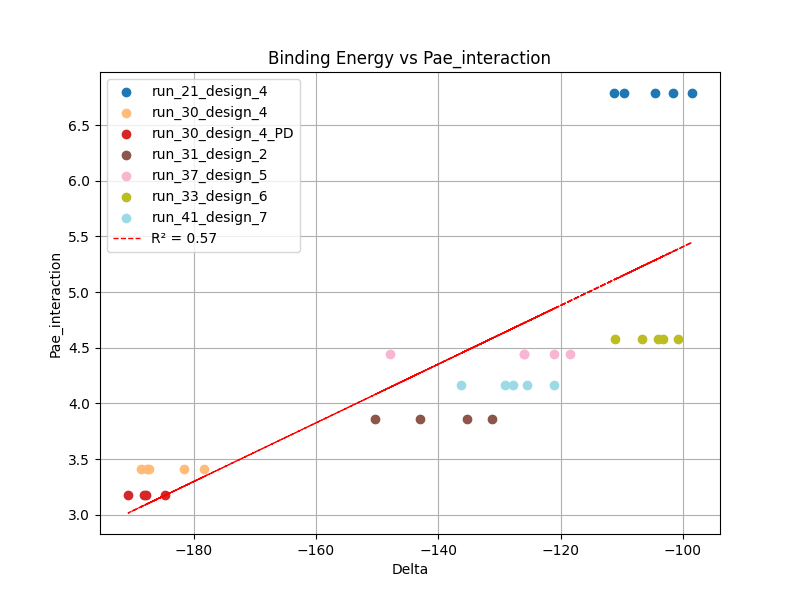
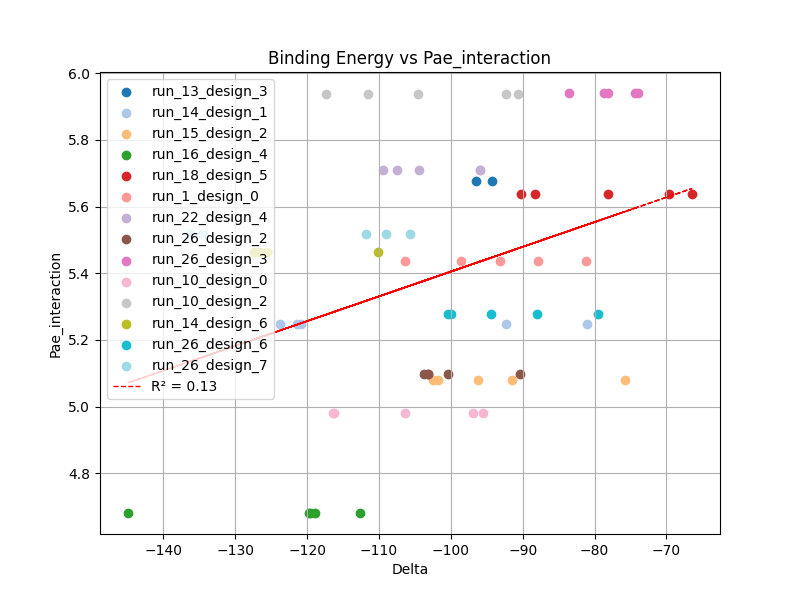
a

diff --git a/GROMACS/BindingEnergyvsPAE.py b/GROMACS/BindingEnergyvsPAE.py
@@ -7,21 +7,24 @@ import re
 
 # Load the CSV file
 df = pd.read_csv('deltavspae.csv', header=None, index_col=None)
-df = df.rename(columns={0: 'Protein', 1: 'Delta', 2: 'Pae_interaction'})
+df = df.rename(columns={0: 'protein_name', 1: 'Delta', 2: 'Pae_interaction'})
+df_local=pd.read_csv('pae_local_global.csv', header=0)
+merged_df=pd.merge(df,df_local, on='protein_name' , how='left')
+print(merged_df)
 
 # Create a colormap with as many colors as there are unique proteins
-colors = plt.cm.get_cmap('tab20', len(df['Protein'].unique()))
+colors = plt.cm.get_cmap('tab20', len(df['protein_name'].unique()))
 pattern = r'run_\d+_design_\d+(?:_PD)?'
 # Scatter plot
 plt.figure(figsize=(8, 6))
-for i, protein in enumerate(df['Protein'].unique()):
-    subset_df = df[df['Protein'] == protein]
+for i, protein in enumerate(merged_df['protein_name'].unique()):
+    subset_df = merged_df[merged_df['protein_name'] == protein]
     protein_name=re.search(pattern, protein).group()
     plt.scatter(subset_df['Delta'], subset_df['Pae_interaction'], label=protein_name, color=colors(i))
 
 # Fit a line (linear regression)
-X = df[['Delta']]
-y = df['Pae_interaction']
+X = merged_df[['Delta']]
+y = merged_df['Pae_interaction']
 model = LinearRegression().fit(X, y)
 y_pred = model.predict(X)
 r_squared = r2_score(y, y_pred)
@@ -37,3 +40,28 @@ plt.title('Binding Energy vs Pae_interaction')
 plt.grid(True)
 plt.legend(loc='upper left')
 plt.savefig('DeltaVsPae.png')
+
+plt.figure(figsize=(8, 6))
+for i, protein in enumerate(merged_df['protein_name'].unique()):
+    subset_df = merged_df[merged_df['protein_name'] == protein]
+    protein_name=re.search(pattern, protein).group()
+    plt.scatter(subset_df['Delta'], subset_df['pae_interaction_local'], label=protein_name, color=colors(i))
+
+# Fit a line (linear regression)
+X = merged_df[['Delta']]
+y = merged_df['pae_interaction_local']
+model = LinearRegression().fit(X, y)
+y_pred = model.predict(X)
+r_squared = r2_score(y, y_pred)
+# Plot the regression line
+plt.plot(X, y_pred, color='r', linewidth=1, linestyle='--', label=f'R² = {round(r_squared,2)}')
+
+# Calculate R-squared
+
+
+plt.xlabel('Delta')
+plt.ylabel('Pae_interaction_local')
+plt.title('Binding Energy vs Pae_interaction_local')
+plt.grid(True)
+plt.legend(loc='upper left')
+plt.savefig('DeltaVsPae_local.png')

diff --git a/GROMACS/binding_energy_vs_pae_interaction.py b/GROMACS/binding_energy_vs_pae_interaction.py
@@ -6,12 +6,9 @@ import os
 import glob
 import re
 
-# Define the input and output file paths
-input_file = '/emdata/cchacon/GROMACS_micropeptide/run_30_design_4_PD_run_3_design_6_substituted_dldesign_0_cycle1_af2pred/gmx_results_gb/run_30.csv'
-output_file = '/emdata/cchacon/GROMACS_micropeptide/run_30_design_4_PD_run_3_design_6_substituted_dldesign_0_cycle1_af2pred/gmx_results_gb/run_30_only_deltaG.csv'
 
 def extract_protein_name(pdb_input):
-    pattern=r'.*/input/(.*)\.pdb'
+    pattern=r'input/(.*)\.pdb'
     protein_name=re.search(pattern, pdb_input).group(1)
     return protein_name
 
@@ -51,7 +48,7 @@ if __name__ == '__main__':
     try:
         input_file=glob.glob(os.path.join(args.folder, '*csv'))[0]
         output_file=os.path.join(args.folder, 'delta.csv')
-        input_pdb=glob.glob(os.path.join(args.folder, 'input/*pdb'))[0]
+        input_pdb=glob.glob(os.path.join('input/*pdb'))[0]
         extract_total_values(input_file, output_file)
         df=pd.read_csv(output_file, index_col=None, header=0)
         print(df)
@@ -60,7 +57,8 @@ if __name__ == '__main__':
         pae_interaction=extract_pae_interaction(input_pdb)
         protein_name=extract_protein_name(input_pdb)
         print(protein_name)
-        with open('/emdata/cchacon/GROMACS_micropeptide/deltavspae.csv', 'a') as file:
+        with open('../deltavspae.csv', 'a') as file:
             file.write(f'{protein_name},{delta},{pae_interaction}\n')
+
     except:
-        print(f'{args.folder} doesnt have the required files')
+        print('Nope')

diff --git a/RFD/pae_v2.py b/RFD/pae_v2.py
@@ -12,24 +12,26 @@ parser.add_argument('--protein', type=str, help='introduce your protein name, ru
 args = parser.parse_args()
 
 # Specify the path to your JSON file
+pattern_run = r'run_\d+'
+pattern_design = r'design_\d+'
+
+protein_run_match = re.search(pattern_run, args.protein)
+protein_design_match = re.search(pattern_design, args.protein)
+
+protein_run = protein_run_match.group() if protein_run_match else None
+protein_design = protein_design_match.group() if protein_design_match else None
+
 
 try:
-    pattern_run = r'run_\d+'
-    pattern_design = r'design_\d+'
-
-    protein_run_match = re.search(pattern_run, args.protein)
-    protein_design_match = re.search(pattern_design, args.protein)
-
-    protein_run = protein_run_match.group() if protein_run_match else None
-    protein_design = protein_design_match.group() if protein_design_match else None
-
-
-    file_path = glob.glob(f'output/{protein_run}/pae*{protein_run}*{protein_design}*.json')[0]
-
+    file_path = glob.glob(f'../output/{protein_run}/pae*{protein_run}*{protein_design}*.json')[0]
     protein_name=args.protein.split('.')[0]
-except:
-    protein_name=args.protein.split('.')[0]
-    file_path=glob.glob('*json')[0]
+except IndexError:
+    try:
+        protein_name=args.protein.split('.')[0]
+        file_path=glob.glob(f'../output/{protein_run}/pae_{protein_run}_{protein_design}*json')[0]
+    except:
+        protein_name=args.protein.split('.')[0]
+        file_path=glob.glob(f'../jsons/pae_{protein_run}_{protein_design}*json')[0]
 
 
 

diff --git a/RFAA/SMILE_convert.py b/RFAA/SMILE_convert.py
@@ -1,0 +1,23 @@
+from rdkit import Chem
+import argparse
+
+parser=argparse.ArgumentParser()
+parser.add_argument('--file', '-f' , help='file to convert')
+args=parser.parse_args()
+
+mol_path=args.file
+print(mol_path)
+# Read PDBQT file
+pdbqt_supplier = Chem.rdmolfiles.ForwardSDMolSupplier(mol_path, removeHs=False, sanitize=False)
+mol = next(pdbqt_supplier)
+
+mol_name=mol_path.split('.')[0]
+# Convert to SMILES
+smiles = Chem.MolToSmiles(mol)
+with open(f'{mol_name}.smiles', 'w') as f:
+    f.write(smiles)
+
+# Convert to SDF
+w = Chem.SDWriter(f'{mol_name}.sdf')
+w.write(mol)
+w.close()

diff --git a/INMUNO/allele_filter.py b/INMUNO/allele_filter.py
@@ -1,0 +1,9 @@
+
+import pandas as pd 
+
+df=pd.read_csv('/emdata/cchacon/inmuno/micropeptides/run_33_europe.txt', sep='\t', skiprows=11)
+df_subset = df.iloc[:, :5] 
+df_filtered=df_subset[(df_subset['%Rank_bestAllele'] < 0.5) & (df_subset['%RankBinding_bestAllele'] < 0.5)]
+print(df_filtered)
+
+

diff --git a/INMUNO/lab_notebook.md b/INMUNO/lab_notebook.md
@@ -1,0 +1,34 @@
+
+
+# IMMUNOGENICITY 
+
+In this notebook I will put everything I obtain from the immunogenicity study. 
+
+As summary, immunogenicity is pretty pretty complicated, and probably having a global perspective is quite complex (Most likely impossible for me). However, I am going to try several approaches 
+
+## B-CELL LINEAR EPITOPES
+
+First, we start with the **antigenic_response.py** . This is a pretty simplistic method to compute the presence of linear epitopes of B-cell lymphocites. It is based on the propensity with which aminoacid are present in the surface and from there it computes the immunogenicity based on the frequency at which each residue is present in known epitopes.
+
+Based on this very doubtful [webpage](http://imed.med.ucm.es/Tools/antigenic.pl), which is at the same time based on this old [paper](https://pubmed.ncbi.nlm.nih.gov/1702393/), I have measured the antigenicity of all the micropeptides.
+I also made a bias, in which each aminoacid is ponderated by **1-aminocid_propensity** (negative for antigenic residues, positive for non-antigenic residues)
+
+Then, I re-ran the micropeptide binders and compute if the antigenicity increased or decreased using the bias.
+
+![alt text](figures/antigenic_propensity.png)
+
+As can be seen in the plot, the bias decreases the antigenicity in almost all cases a mean value of 
+-0.004765 while the positive bias increases the antigenic value a mean of 0.012092
+
+Maybe multiplicating this bias by 2,3 or more could help
+
+## MHC-I EPITOPES
+
+Adaptative immunogenicity (the one we are interested in) can be elicited through two different sources, B-cells and T-cells. Inside T-cells we have CD4 (helpers) and CD8(killers). CD4 increase an immunogenic response when they are activated through the binding with HLA-II present in Antigen Presenting Cells (APC) These HLAs generally present peptides of exogenous proteins that the APCs have taken through endocytosis. On the other hand, C8 are activated through HLA-I, which bind proteins that have been tore down by the proteasome (so proteins present in the cytosol). Once  a CD8 is activated, it kills the cell presenting the antigen.
+
+I use the [PRIME](https://www.ncbi.nlm.nih.gov/pmc/articles/PMC9811684/pdf/main.pdf#appsec1) code to compute the possible presence of peptides that can elicit the immunogenic response through binding to HLA-I. Following what they describe in the paper, we would consider as possible candidates those peptides whose %rank is smaller than 0.5. We would only use 9-mer peptides since most of the peptides has that lenght and using other lengths will complicate things (These are preliminary studies). Those peptides can be generated unsing **mhc-generator.py** 
+
+The problem is that there are a lot of HLA alleles (PRIME gives you the possibility that the peptide binds any of the HLA alleles, detailing to which allele it will bind), so probably this computation can be used to select sequences that reduces the probability that the protein is recognized by the most frequent HLA (personalized medicine), but we cannot assure it will not elicit an immunogenic response.
+
+I made a list with the most frequents alleles from type A, B and C in a European population, which is saved in /emdata/cchacon/inmuno/micropeptides/run_33_europe.txt
+

diff --git a/GROMACS/lab_notebook.md b/GROMACS/lab_notebook.md
@@ -127,7 +127,7 @@ After reading this [webpage](https://pubs.acs.org/doi/full/10.1021/acs.chemrev.9
 
 Doing that, I obtain the following result when plotting pae_interaction_global vs BindingEnergy:
 
-![alt text](figures/DeltaVsPae.png)
+![alt text](figures/DeltavsPAe_micropeptides.png)
 
 If we remove the outlier run_21:
 
@@ -138,3 +138,21 @@ And using pae_interaction_local:
 ![alt text](figures/DeltaVsPae_local.png)
 
 Clearly pae_local seems to perform better, but further studies should be done. The sample is pretty small and there are some strange things happening with the pae_interaction_global data (no termina de dar los mismos resultados)
+
+I repeat these studies with the scaffolding of the binder of the myb domain  at /emdata/cchacon/TRF1/20240418_Scaffolding_myb_2/hits because they clearly improve with the pae_interaction_local, but the results are pretty bad: Not only pae_interaction_local doesn't improve the binding prediction, but pae_interaction-delta correlation is awful
+
+![alt text](figures/DeltaVsPae.png)
+
+And using pae_interaction_local:
+
+![alt text](figures/deltavspae_local.png)
+
+Maybe one possible explanation is that since these are scaffolds that have been grown, the interacting interface is always the same and the smlal differences cannot be captured by the local_pae but probably the problem is the absence of correlation
+
+The results are also pretty bad with different binders so we can say that there is no clear correlation between the deltaG and the pae_interaction_local
+
+![alt text](figures/DeltaVsPae_dim.png)
+
+And using pae_interaction_local:
+
+![alt text](figures/DeltavsPAe_locla_dim.png.png)
